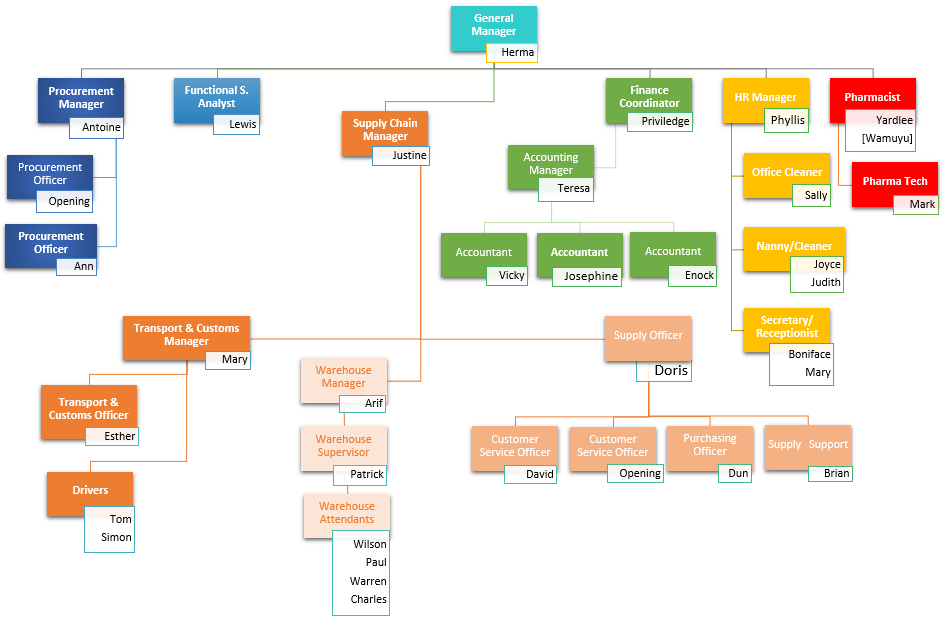
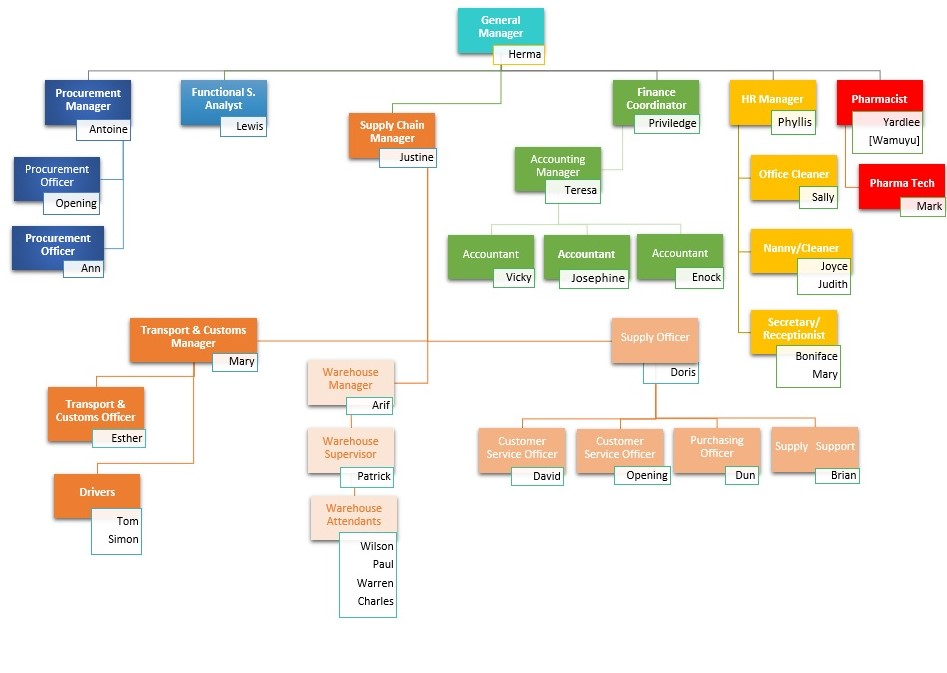
updated organogram

Changed region(s): [[0.0, 0.0, 1.0, 0.9806]]

diff --git a/resources/views/about.blade.php b/resources/views/about.blade.php
@@ -50,7 +50,7 @@
 						<br>
 						<h3 class="">Organogram</h3>
 						<div class="container">
-							<img src="{{URL('/')}}/assets/img/Organogram.PNG" class="" alt="" height="510" style="width:100%">
+							<img src="{{URL('/')}}/assets/img/organogram.PNG" class="" alt="" height="600" style="width:100%">
 						</div>
 					</div>
 				</div>
